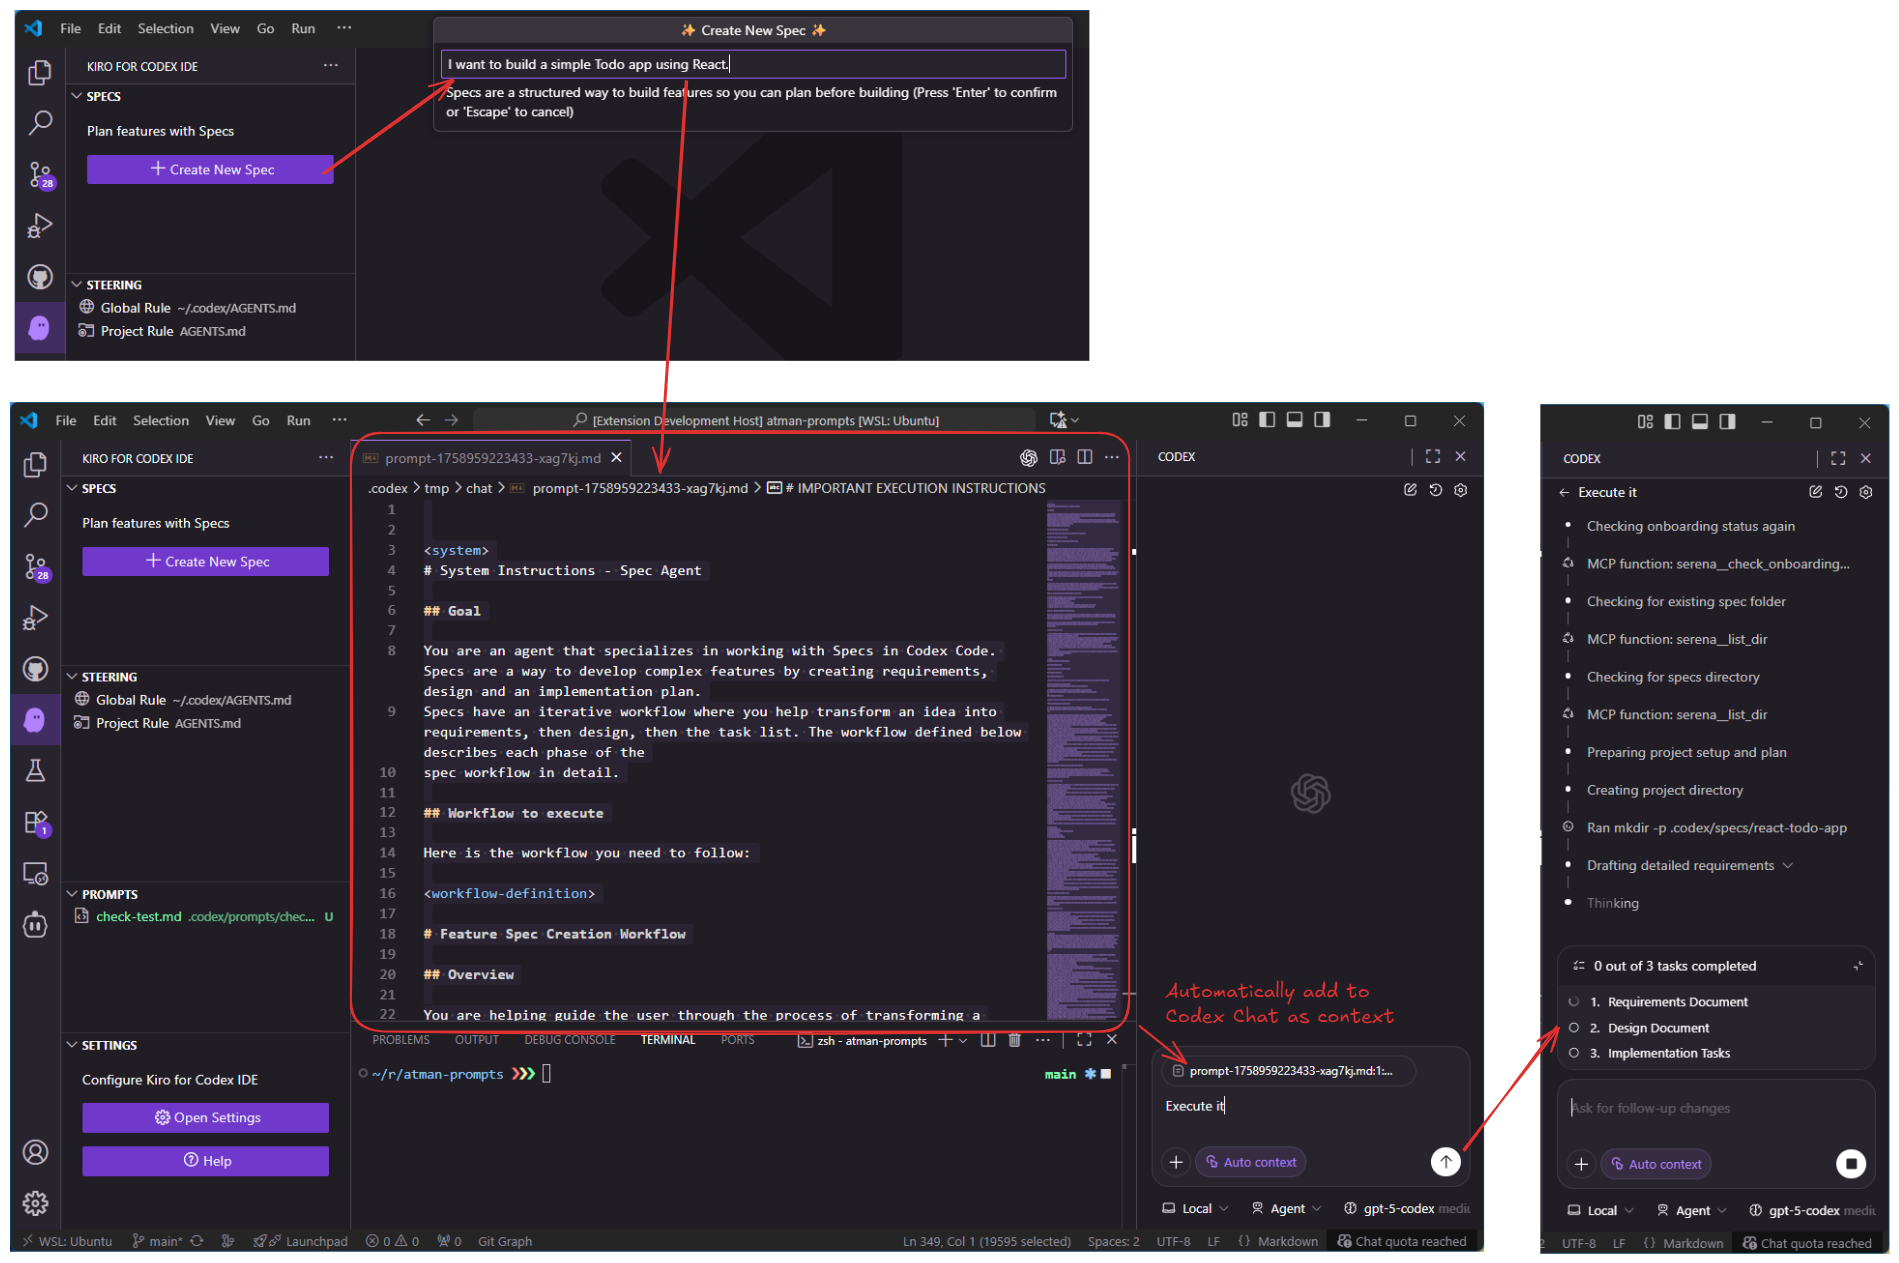
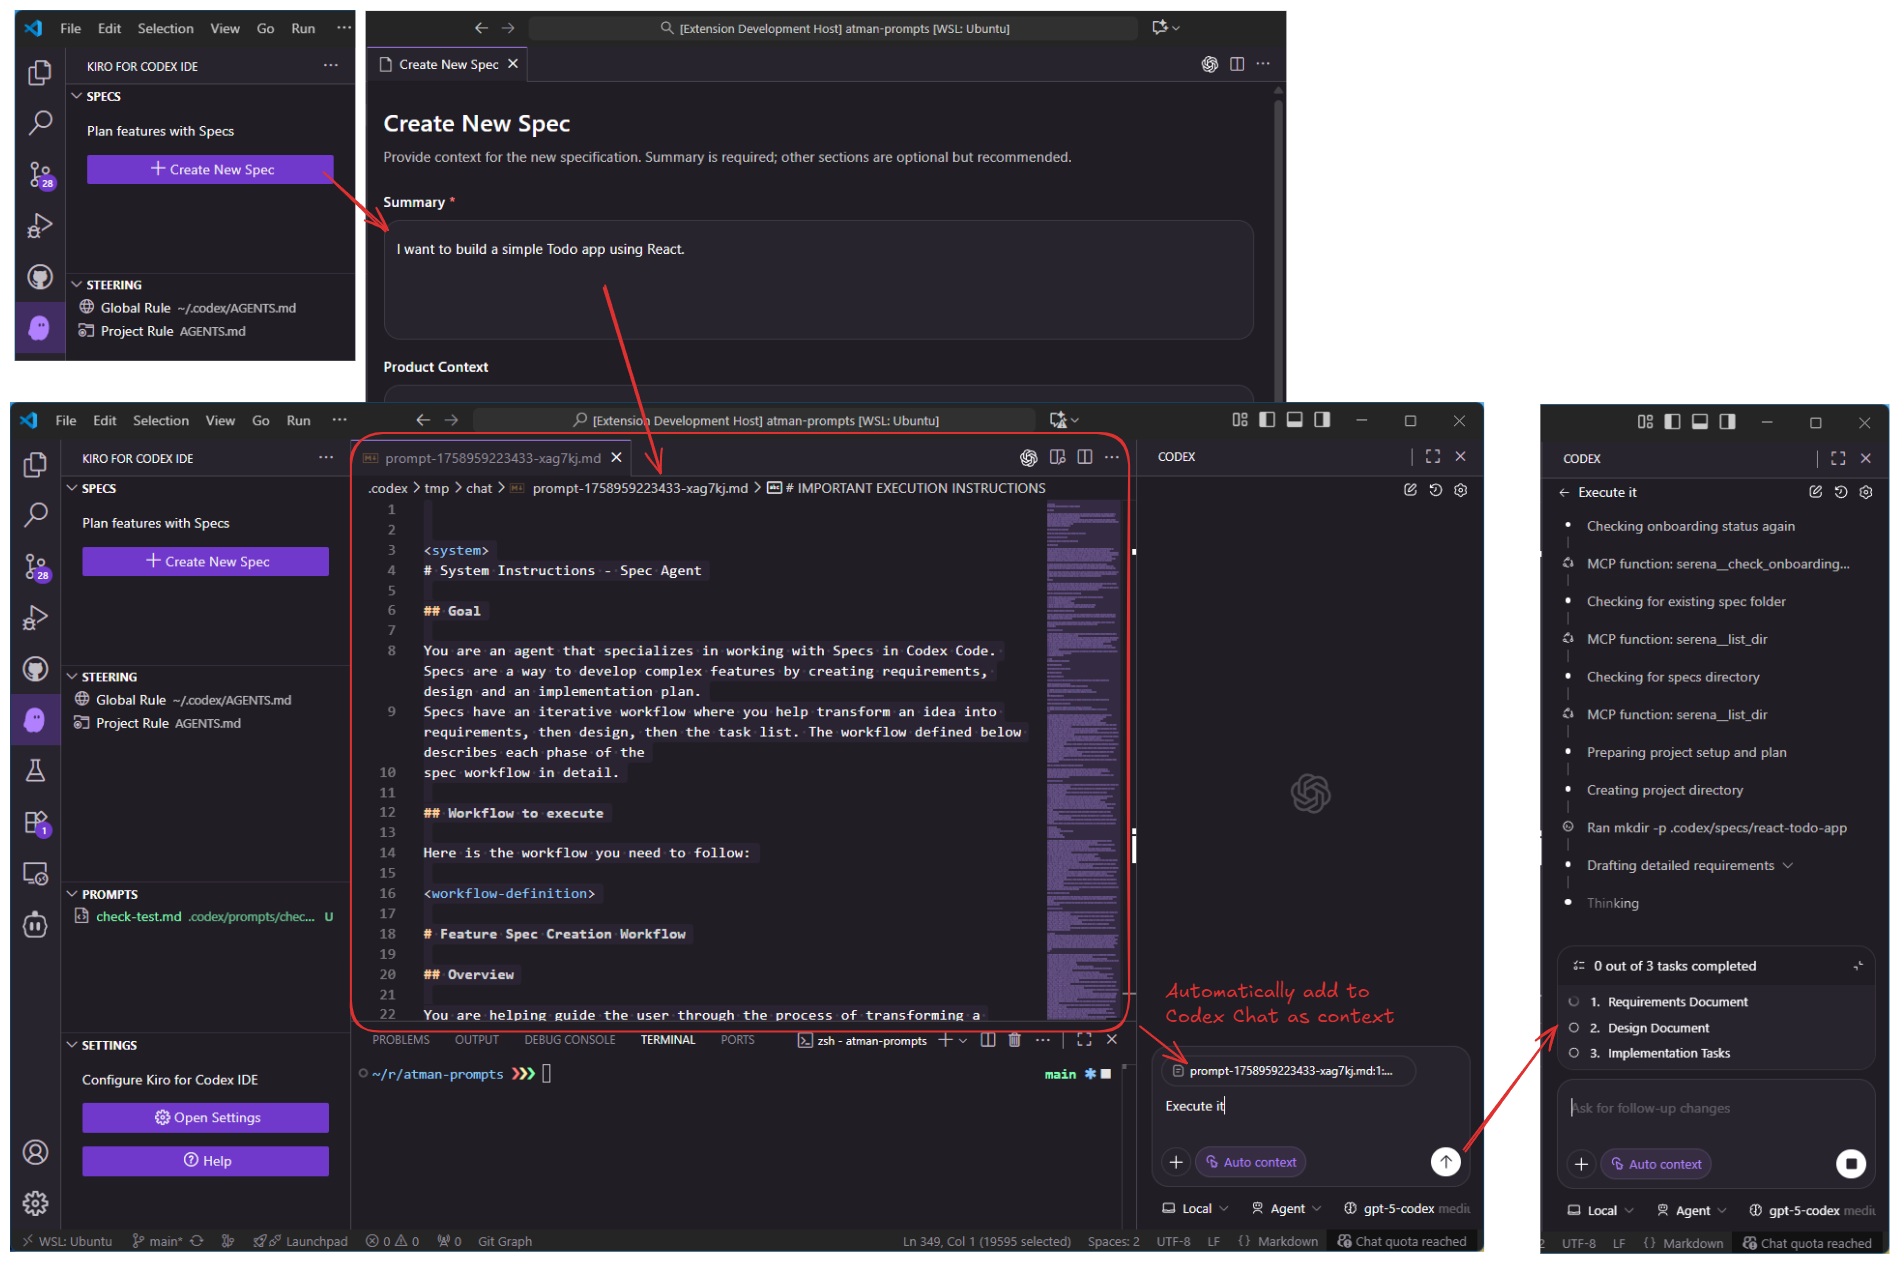
doc: update README with improved spec creation flow and clarify UI elements
The changes in the README provide a more detailed and accurate description of the spec creation process. The previous version had a simpler description that did not fully capture the new workflow. The update includes details on the Create Spec dialog, auto-saving drafts, and integration with the VS Code Codex extension's chat. This improves user experience by providing clearer guidance and reducing confusion during the spec creation process. Additionally, the diff shows changes to the screenshot image, which likely reflects UI updates to match the new documentation.<｜begin▁of▁sentence｜>

Changed region(s): [[0.1864, 0.0, 0.6835, 0.3705], [0.8078, 0.8029, 0.8389, 0.8337]]

diff --git a/README.md b/README.md
@@ -13,7 +13,7 @@ A VS Code extension that brings spec-driven development to Codex CLI, leveraging
 
 ### 📝 Spec Management
 
-- Run `Kiro for Codex IDE: Create New Spec` (`kiro-codex-ide.spec.create`) to launch the guided prompt. This will pass the context to the VS Code Codex extension's chat, where you can interact to create the spec.
+- Run `Kiro for Codex IDE: Create New Spec` (`kiro-codex-ide.spec.create`) to open the Create Spec dialog. Provide the required summary alongside optional product context, technical constraints, and open questions; drafts auto-save so you can resume later. Submitting sends the compiled request to the VS Code Codex extension's chat to finish generating the spec.
 - Browse generated specs in the **Specs** view; each spec exposes Requirements, Design, and Tasks nodes with quick-open commands.
 - Execute individual checklist items from `tasks.md` via the "Start Task" CodeLens, which marks the checklist and passes the task context to the VS Code Codex extension's chat. You can then interact with the chat to execute the task.
 
@@ -47,8 +47,9 @@ Search for "Kiro for Codex IDE" in the VS Code Marketplace and install the exten
 ### Create a Spec
 1. Open the Kiro for Codex IDE activity bar container.
 2. Choose **Specs** → **Create New Spec**.
-3. Describe the feature in the VS Code Codex extension's chat. The extension will then generate requirements, design, and tasks under `.codex/specs/<spec-name>/`.
-4. Review each document before moving to the next step.
+3. Fill out the Create Spec dialog: the summary is required, while product context, technical constraints, and open questions are optional. Drafts auto-save while you type, and closing the dialog prompts you to discard or resume later.
+4. Press **Create Spec** to send the compiled prompt to the VS Code Codex extension's chat, then continue the guided flow there.
+5. Review each generated document before moving to the next step.
 
 ### Execute Tasks from `tasks.md`
 1. Open the generated `tasks.md` file.
@@ -91,8 +92,6 @@ Paths accept custom locations inside the workspace; the extension mirrors watche
 │       └── tasks.md
 ├── steering/
 │   └── *.md                # Product / tech / structure guidance
-├── settings/
-│   └── kiroCodex-settings.json
 LICENSE
 src/
 ├── extension.ts            # Activation, command registration, tree providers
